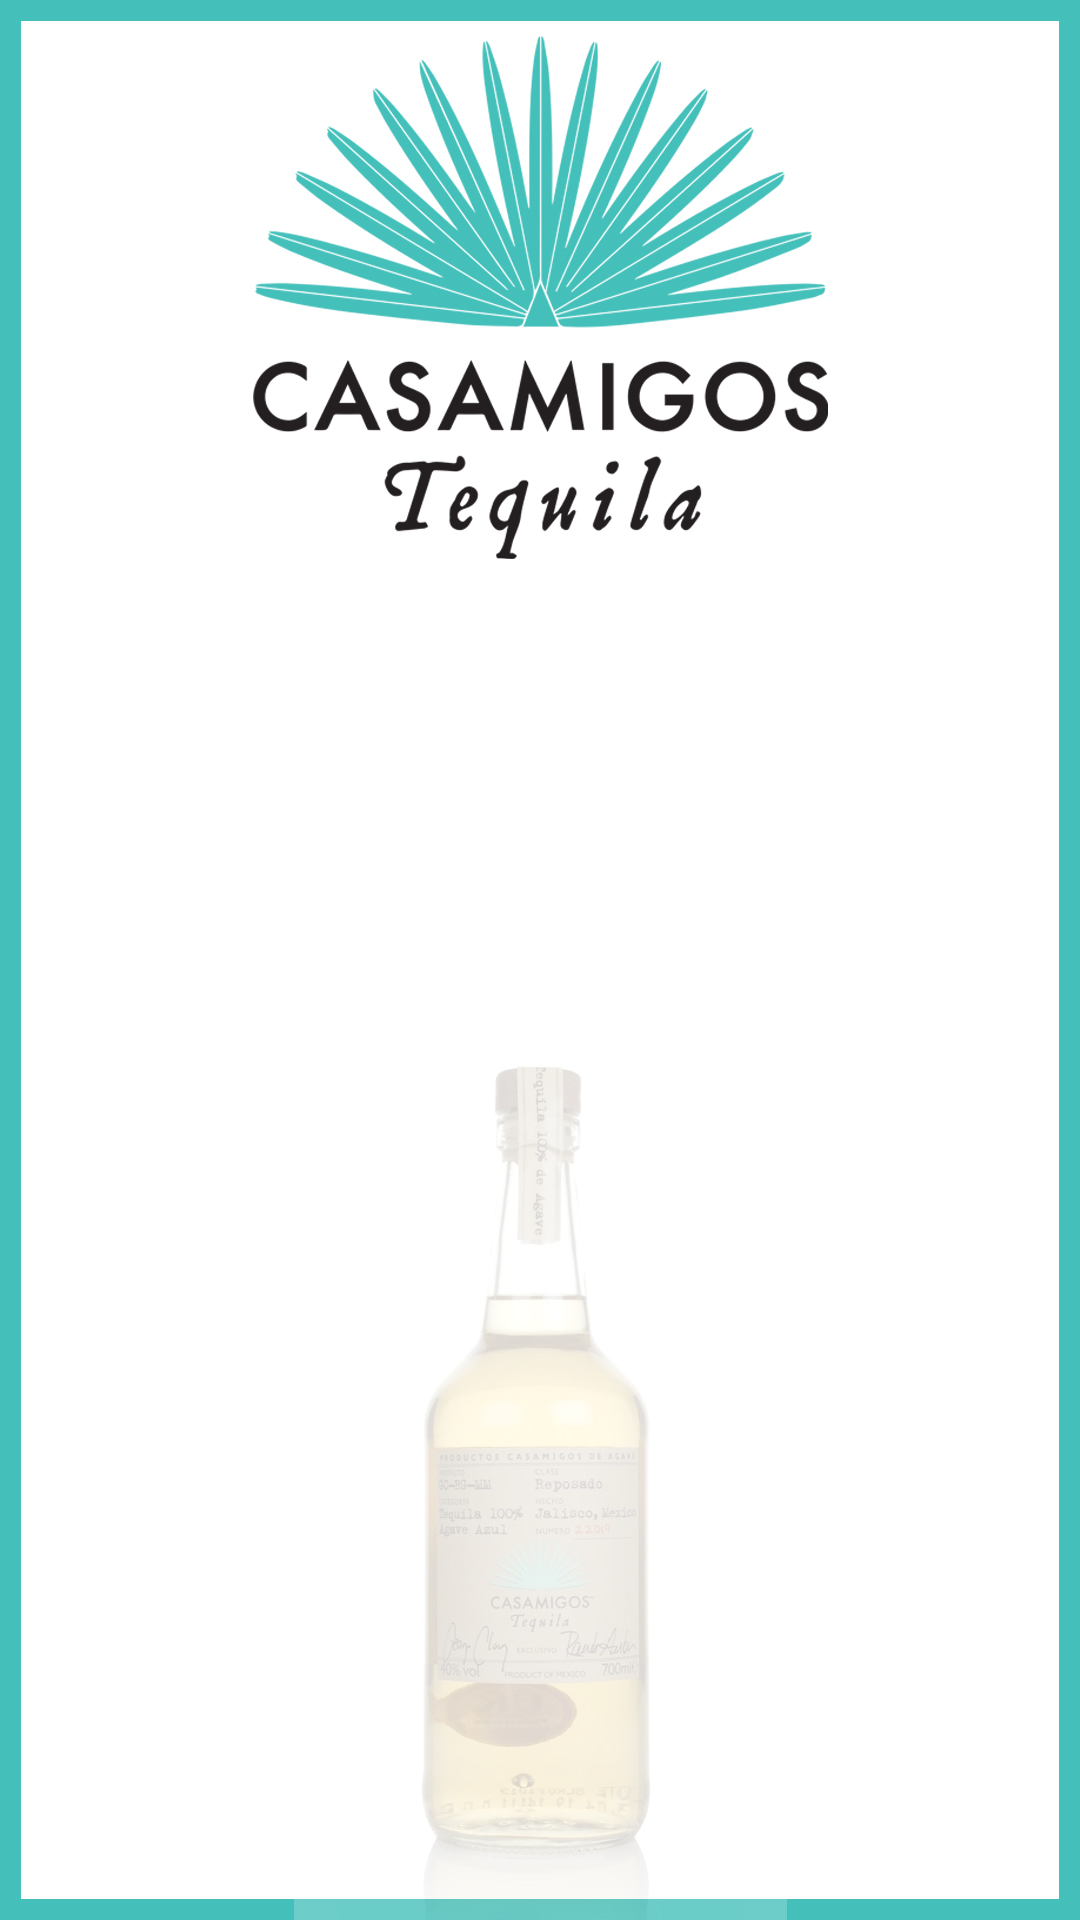
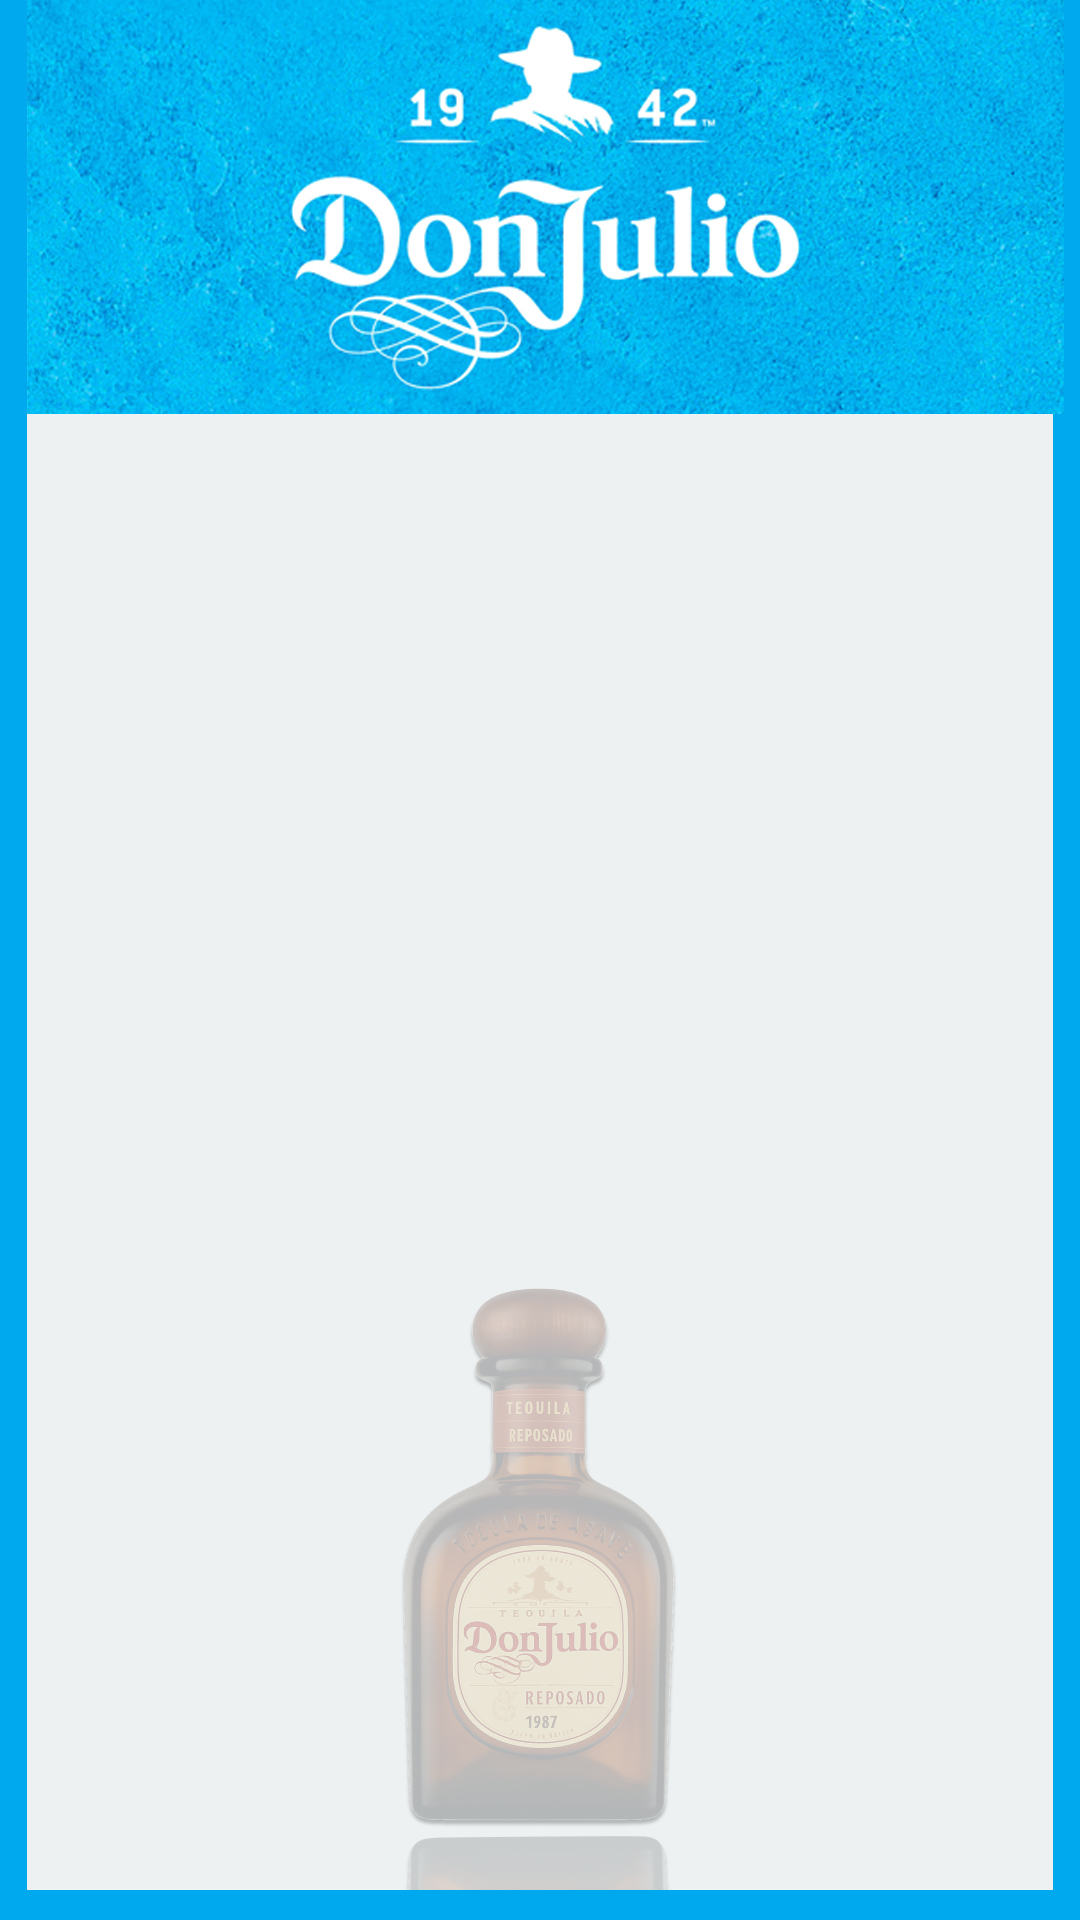
image background channge

diff --git a/src/index.css b/src/index.css
@@ -9,10 +9,11 @@
   --tertiary-color: #656969;
   --secondary-two-color: #e2e3e6;
   --color-one: #5a4637;
+  --color-two: #d3a84b;
   --light--primary: #f8ce52;
   --lighter-primary: #f8db81;
   --brown-primary: #721f2e;
-  --blue-main: #44bfba;
+  --blue-main: #02afee;
   --light-brown: #f9e592;
 }
 
@@ -322,7 +323,6 @@ div:where(.swal2-icon).swal2-error {
   margin: 0.5rem 0 2.5rem 0;
   width: 100%;
   color: #000;
-
 }
 
 /* answers */
@@ -455,7 +455,7 @@ div:where(.swal2-icon).swal2-error {
 /* summary */
 
 .header_summary {
-  background: linear-gradient(90deg, #44bfba  0%, #7ee3e0 100%);
+  background: linear-gradient(90deg, #02afee 0%, #d3a84b 100%);
   width: 100%;
   height: 35%;
   display: flex;
@@ -498,9 +498,11 @@ div:where(.swal2-icon).swal2-error {
 }
 
 .row_one_summary .rows_one_details p:last-child {
-  background-color: #fff;
+  color: #fff;
+  background-color: var(--color-two);
   width: fit-content;
   padding: 12px;
+  padding-block: 16px;
 }
 
 .main_summary {
@@ -508,7 +510,7 @@ div:where(.swal2-icon).swal2-error {
   width: 100%;
 }
 
-.restart_button{
+.restart_button {
   position: absolute;
   right: 70px;
 }
@@ -1039,15 +1041,15 @@ div:where(.swal2-icon).swal2-error {
     font-weight: 500;
   }
 
-  #summary{
+  #summary {
     height: 78%;
   }
 
-  #summary .question{
+  #summary .question {
     font-size: 1.75rem;
   }
 
-  #summary .user-answer{
+  #summary .user-answer {
     font-size: 1.5rem;
   }
 }

diff --git a/src/components/Summary.jsx b/src/components/Summary.jsx
@@ -3,7 +3,7 @@ import { useEffect, useState } from "react";
 import CompltedImage from "../assets/image/completedQuiz.png";
 import { updatePlayer } from "./api";
 
-import Cocktail from "/image/terquila.jpg";
+import Cocktail from "/image/DonJulio.jpg";
 
 const resultsMap = {
   A: "ROOTED IN TEQUILA",
